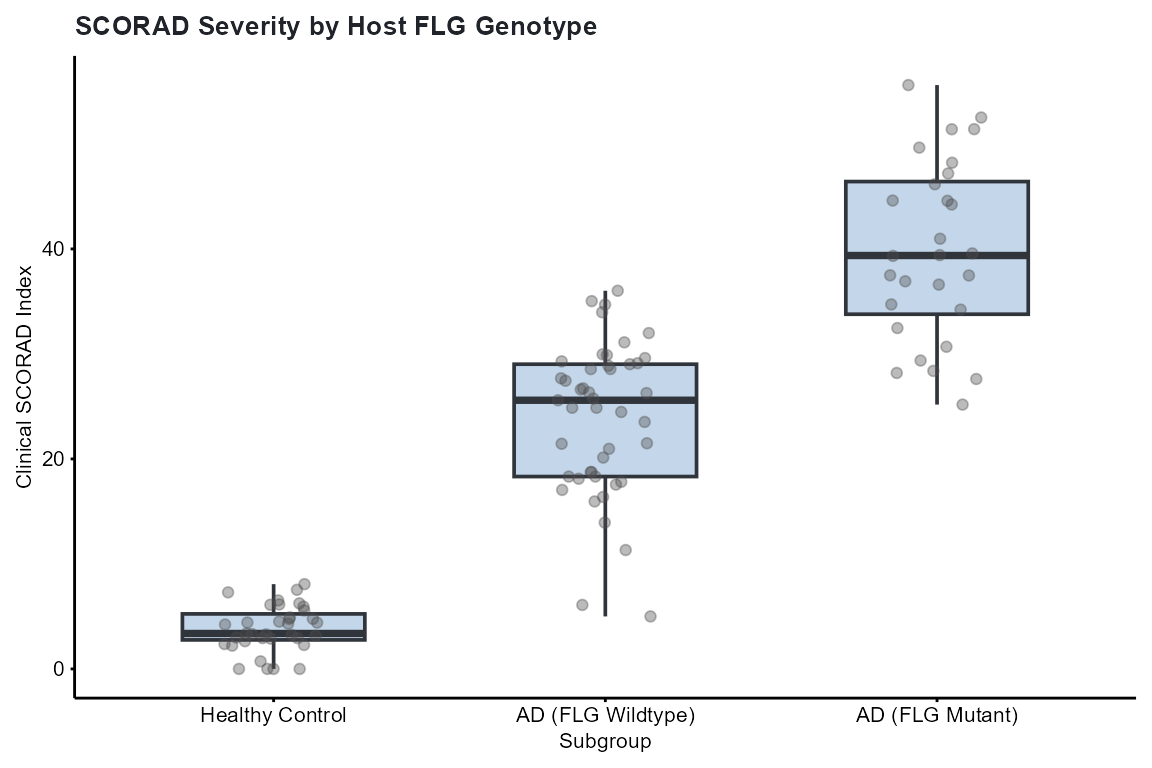
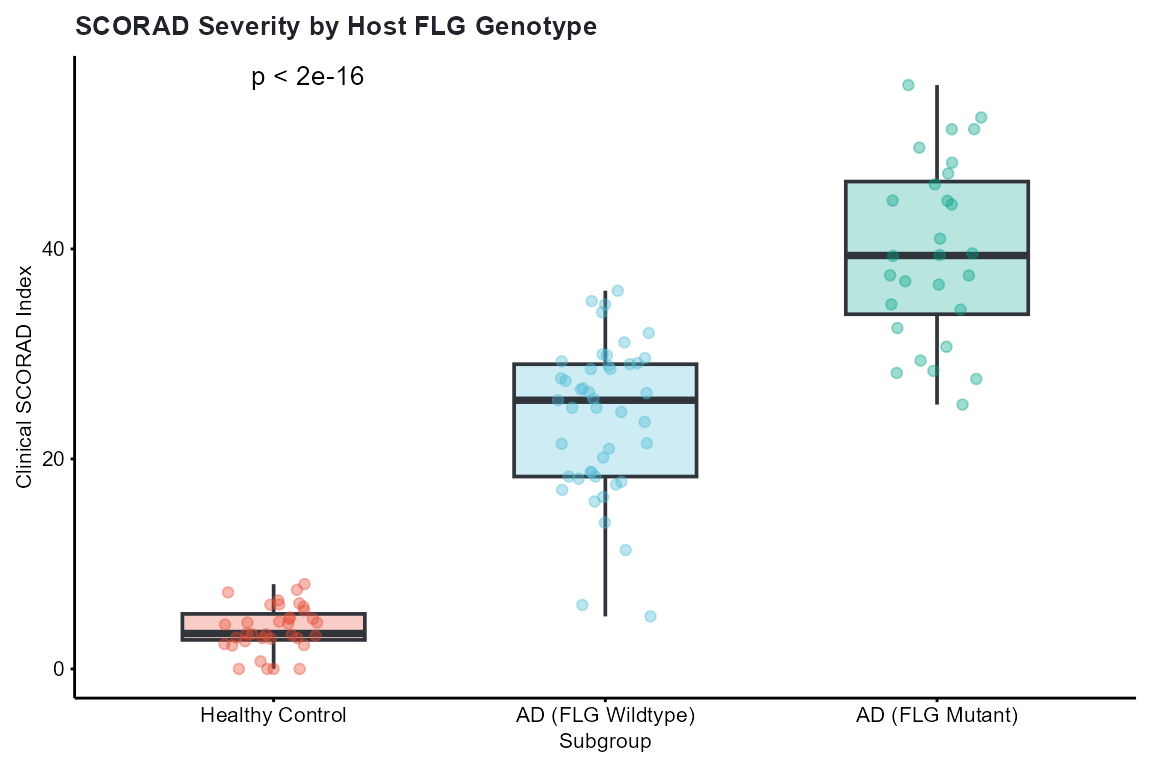
Support subgroup coloring and automated Kruskal-Wallis testing in cliplot boxplots

diff --git a/docs/articles/microbiome-mgwas.html b/docs/articles/microbiome-mgwas.html
@@ -107,8 +107,10 @@ tests:</p>
 <span><span class="fu"><a href="../reference/cliplot.html">cliplot</a></span><span class="op">(</span></span>
 <span>  <span class="va">SCORAD</span> <span class="op">~</span> <span class="va">Subgroup</span>,</span>
 <span>  data <span class="op">=</span> <span class="va">cohort_df</span>,</span>
+<span>  by <span class="op">=</span> <span class="st">"Subgroup"</span>,</span>
 <span>  type <span class="op">=</span> <span class="st">"boxplot"</span>,</span>
 <span>  palette <span class="op">=</span> <span class="st">"nature"</span>,</span>
+<span>  legend <span class="op">=</span> <span class="st">"none"</span>,</span>
 <span>  stat.test <span class="op">=</span> <span class="st">"kruskal.test"</span>,</span>
 <span>  title <span class="op">=</span> <span class="st">"SCORAD Severity by Host FLG Genotype"</span>,</span>
 <span>  ylab <span class="op">=</span> <span class="st">"Clinical SCORAD Index"</span></span>
